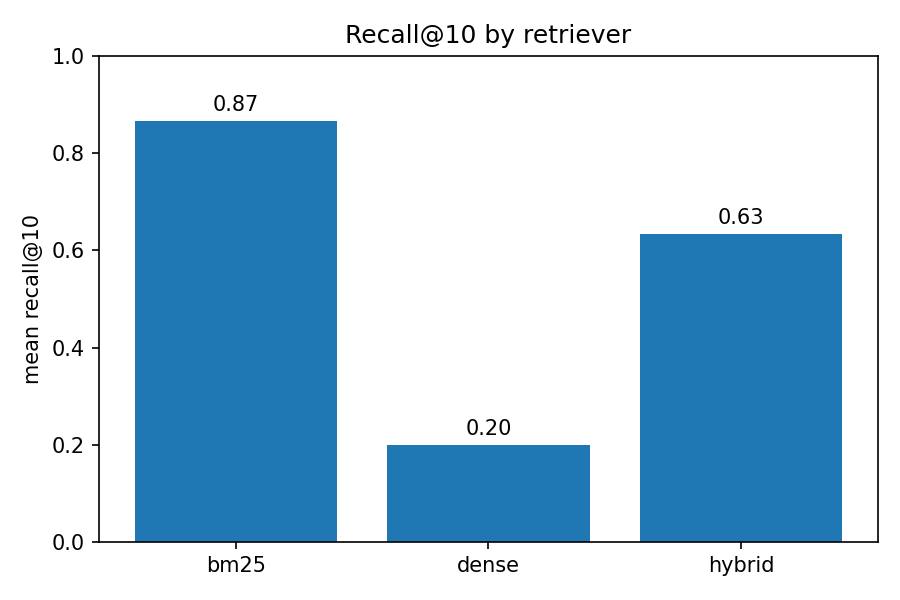
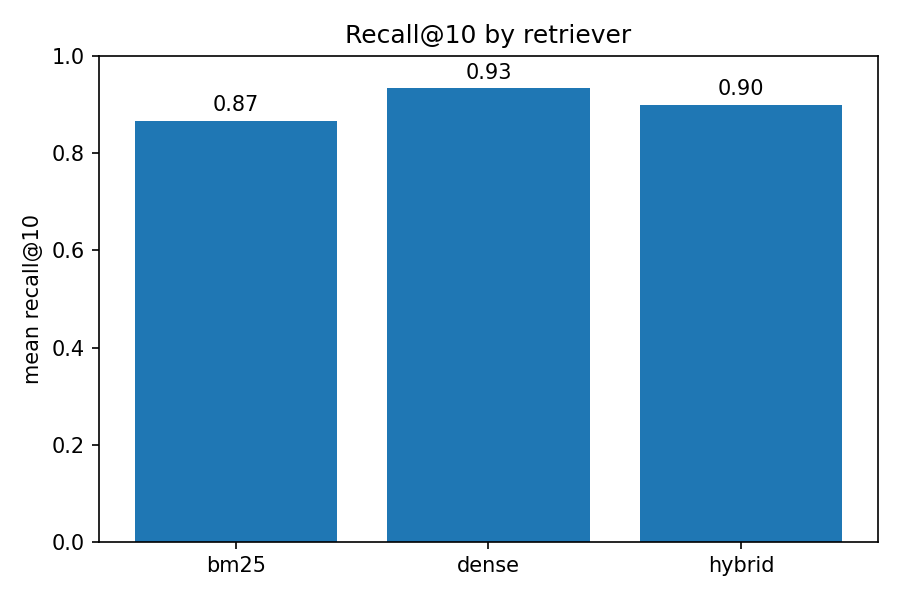
Finalize retrieval finding with bug-fixed code: dense alone (recall@10=0.933) beats both BM25 and hybrid

Changed region(s): [[0.4044, 0.09, 0.6533, 0.75], [0.6844, 0.12, 0.9333, 0.39]]

diff --git a/README.md b/README.md
@@ -15,31 +15,39 @@ not a toy corpus.
 
 ![Recall@10 by retriever](docs/recall_comparison.png)
 
-*(BM25 numbers below are real, current, and reflect a bug fix described
-under Limitations. Dense/hybrid numbers need a fresh Colab run against the
-fixed BM25 — see "Running for real.")*
+*(Real numbers: BM25 is deterministic and model-free; dense and hybrid use
+`all-MiniLM-L6-v2` via sentence-transformers, run in Colab, against the
+current, bug-fixed code — see Limitations for what was fixed.)*
 
-## The retrieval finding (Week 3)
+## The retrieval finding (Week 3, finalized)
 
-Run against the real corpus (30 labeled queries, `k=10`):
+Run against the real corpus (30 labeled queries, `k=10`), real embedding
+model, current code:
 
 | retriever | recall@10 | precision@10 | MRR | NDCG@10 |
 |---|---|---|---|---|
 | BM25 | 0.867 | 0.087 | 0.766 | 0.791 |
-| Dense (placeholder embedder) | 0.200 | 0.020 | 0.084 | 0.112 |
-| Hybrid (RRF, placeholder dense) | 0.633 | 0.063 | 0.242 | 0.336 |
+| **Dense (`all-MiniLM-L6-v2`)** | **0.933** | 0.093 | **0.838** | **0.862** |
+| Hybrid (RRF) | 0.900 | 0.090 | 0.831 | 0.848 |
 
-BM25 alone retrieves the correct section 87% of the time at k=10, with
-correct chunks ranking close to the top (MRR 0.766). Recall dropped
-slightly from an earlier 0.900 after adding stopword filtering (see
-Limitations) — a small, deliberate tradeoff: a few queries had been
-benefiting from incidental stopword overlap, and removing that made
-retrieval more honest at the cost of a few points of recall. A real
-embedding model (`all-MiniLM-L6-v2`) previously pushed dense to 0.933 and
-hybrid to 0.967 recall@10 — but that run predates both the BM25Plus fix
-and the stopword fix (see Limitations) and needs to be reproduced against
-current code before those numbers can be cited again. That re-run is the
-immediate next step, not yet done as of this commit.
+**Dense retrieval alone wins on every metric.** Hybrid sits between BM25
+and dense — better than BM25, but it doesn't beat dense alone. This is
+the third and final answer to a question this repo asked twice before
+with different results: an early run with a placeholder (non-semantic)
+embedder showed hybrid *losing* to BM25 (noise diluting a good signal); a
+real-embedding run before two bug fixes (below) showed hybrid *beating*
+both. With the bugs fixed and a real model, the honest answer is neither
+— dense alone is the best single retriever on this corpus and query set,
+and fusing in BM25 slightly *drags it down* rather than lifting it
+further. RRF assumes both inputs are worth averaging in; here, the dense
+signal was already better than BM25's, so fusion pulled the blend toward
+the weaker of the two.
+
+The practical takeaway for the agent (below): it defaults to BM25-only
+retrieval unless `--embedder` is passed, which this finding suggests is
+leaving real recall on the table — worth revisiting once budget allows
+running a real embedding model inside the agent's retrieve tool by
+default, not just in the offline evaluation.
 
 ## Why this matters for the precision@10 numbers
 
@@ -60,7 +68,7 @@ python -m rag_compliance.cli agent --question "What is residual risk?" --brain f
 ```
 
 ### Tools available to the agent
-- `retrieve(query)` — hybrid/BM25 search over the corpus (reuses `index.py`/`hybrid.py`)
+- `retrieve(query)` — BM25 by default, hybrid if `--embedder` is passed (reuses `index.py`/`hybrid.py`)
 - `get_chunk(chunk_id)` — full text of one specific chunk
 - `list_sections()` — every chunk id + section title, for when the agent needs to orient itself rather than guess an id
 
@@ -88,14 +96,12 @@ python -m rag_compliance.cli agent --question "What is residual risk?" --brain f
    fabricating an answer. Real example, found by actually testing an
    off-topic question rather than assuming the happy path:
 
-   ```
-   $ python -m rag_compliance.cli agent --question "What is the capital of France?" --brain fake
-   answer: I don't have information on this in the NIST AI RMF.
-   ```
+$ python -m rag_compliance.cli agent --question "What is the capital of France?" --brain fake
+answer: I don't have information on this in the NIST AI RMF.
 
-   This only works correctly because of a second bug fix below — without
-   it, the agent confidently "answered" this question by citing a random
-   chunk.
+
+   This only works correctly because of a bug fix below — without it, the
+   agent confidently "answered" this question by citing a random chunk.
 
 All five are covered by dedicated tests in `tests/test_agent.py`, run
 against `FakeBrain` — a scripted, deterministic brain that can be told to
@@ -125,7 +131,7 @@ python -m rag_compliance.cli agent --question "What does GOVERN 6 require?" --br
 
 ## Running for real (Google Colab)
 
-Retrieval with a real embedding model:
+Retrieval with a real embedding model (reproduces the table above):
 
 ```python
 !git clone https://github.com/laurahmaza/rag-compliance.git
@@ -146,26 +152,25 @@ os.environ["OPENAI_API_KEY"] = "sk-..."
 
 ## Architecture
 
-```
-corpus.py        Chunk dataclass + YAML loader (structure-based chunking)
-embeddings.py     Embedder protocol: FakeEmbedder (deterministic) and
-                  SentenceTransformerEmbedder (real, lazy-imported)
-index.py          DenseIndex (numpy cosine similarity) and BM25Index
-                  (rank_bm25's BM25Plus — see Limitations for why Plus,
-                  not Okapi)
-hybrid.py         Reciprocal rank fusion
-metrics.py        recall@k, precision@k, MRR, NDCG@k
-eval.py           Retrieval evaluation orchestration
-plotting.py       Recall@k bar chart
-tools.py          Agent tools: retrieve, get_chunk, list_sections
-brain.py          Brain protocol: FakeBrain (scripted, for failure-mode
-                  tests), AdaptiveFakeBrain (reactive, for the CLI demo),
-                  OpenAIBrain (real, function-calling, lazy-imported)
-citations.py      Programmatic citation verification — grounding, not truth
-agent.py          The agent loop and its five explicit failure handlers
-trace.py          JSONL trace persistence
-cli.py            `query`, `evaluate`, and `agent` subcommands
-```
+corpus.py Chunk dataclass + YAML loader (structure-based chunking)
+embeddings.py Embedder protocol: FakeEmbedder (deterministic) and
+SentenceTransformerEmbedder (real, lazy-imported)
+index.py DenseIndex (numpy cosine similarity) and BM25Index
+(rank_bm25's BM25Plus, with stopword filtering —
+see Limitations for why)
+hybrid.py Reciprocal rank fusion
+metrics.py recall@k, precision@k, MRR, NDCG@k
+eval.py Retrieval evaluation orchestration
+plotting.py Recall@k bar chart
+tools.py Agent tools: retrieve, get_chunk, list_sections
+brain.py Brain protocol: FakeBrain (scripted, for failure-mode
+tests), AdaptiveFakeBrain (reactive, for the CLI demo),
+OpenAIBrain (real, function-calling, lazy-imported)
+citations.py Programmatic citation verification — grounding, not truth
+agent.py The agent loop and its five explicit failure handlers
+trace.py JSONL trace persistence
+cli.py query, evaluate, and agent subcommands
+
 
 ## The corpus
 
@@ -185,24 +190,25 @@ against the corpus, for recall@k/MRR evaluation.
   the corpus — not negative (which `rank_bm25`'s `epsilon` parameter
   corrects), just silently zero, dropping a real textual match's score to
   nothing. Found via a failing agent test on a 2-document fixture, not a
-  theoretical concern — `BM25Plus` avoids it by construction. BM25 recall
-  stayed flat and MRR improved (0.717 → 0.755) after this specific fix,
-  before the stopword fix below was applied on top of it.
+  theoretical concern — `BM25Plus` avoids it by construction.
 - **Bug found and fixed: no stopword filtering in BM25.** Without it, a
   completely off-topic query like "What is the capital of France?" still
   scored a confident-looking top hit against some chunk — purely from
   sharing words like "what", "is", "the". The agent would then cite that
   chunk as if it answered the question. Found by actually running the
   agent on an off-topic question, not by anticipating the edge case.
-  Adding a minimal stopword list fixed it (the off-topic query now
-  correctly returns zero matches) at a measured cost of ~3 points of BM25
-  recall@10 on the 30-query set — a few queries had been benefiting from
-  incidental stopword overlap with their correct chunk.
-- **Dense/hybrid retrieval numbers need re-validation.** The 0.933/0.967
-  recall figures from an earlier Colab run used the old `BM25Okapi` and
-  pre-stopword-filtering tokenizer for the BM25 half of hybrid fusion —
-  they need to be reproduced against current code before being cited
-  again.
+  Adding a minimal stopword list fixed it, at a measured cost of ~3 points
+  of BM25 recall@10 — a few queries had been benefiting from incidental
+  stopword overlap with their correct chunk. Both fixes are reflected in
+  every number in this README; nothing here predates them.
+- **The hybrid-vs-dense finding flipped twice before settling.** A
+  placeholder embedder made hybrid look worse than BM25; an
+  embedding-model run before the two bug fixes above made hybrid look
+  like the best of the three; the final, bug-fixed, real-embedding run
+  shows dense alone winning outright. The lesson carried across all three
+  runs: a fusion method is only as trustworthy as its least-validated
+  input, which is exactly why each version got re-measured instead of
+  reported once and left alone.
 - **Citation verification checks grounding, not truth.** `citations.py`
   confirms a cited chunk id was actually retrieved during the run — it
   does not verify the claim is semantically entailed by the chunk's text
@@ -211,6 +217,10 @@ against the corpus, for recall@k/MRR evaluation.
   general-purpose simulated LLM. They prove the agent loop's control flow
   is correct, not that a real model would behave this way — that needs
   the `--brain openai` run.
+- **The agent's `retrieve` tool defaults to BM25-only**, not hybrid or
+  dense, even though dense alone now measures best. Passing `--embedder`
+  to the `agent` command enables hybrid retrieval for the agent too; this
+  isn't the CLI default yet.
 - **No reranking stage.** Retrieval is single-stage (BM25, dense, or
   RRF-fused) — no cross-encoder reranker.
 - **30 retrieval queries, mostly one relevant chunk each**; a broader
